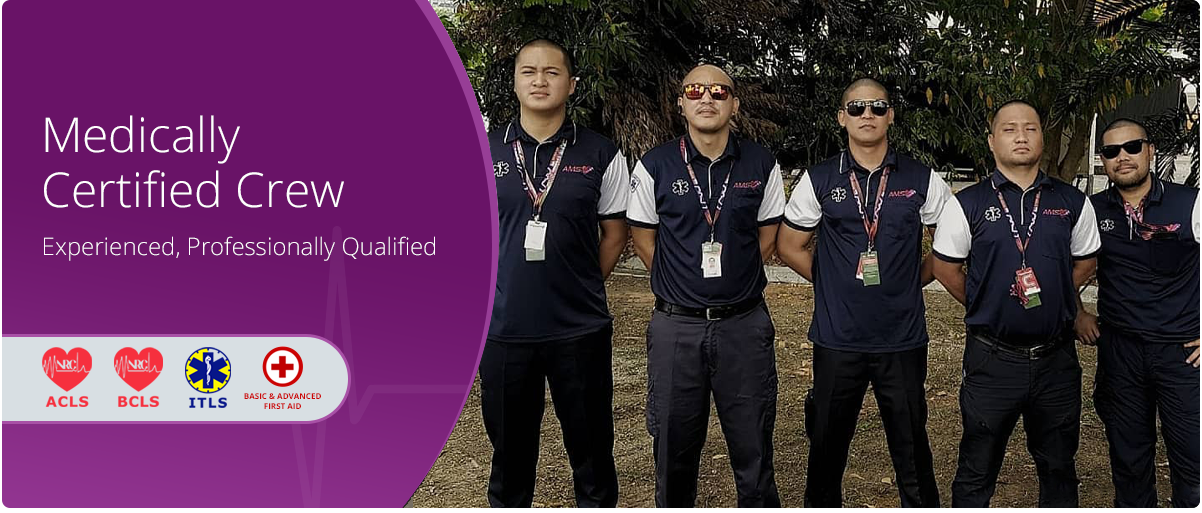
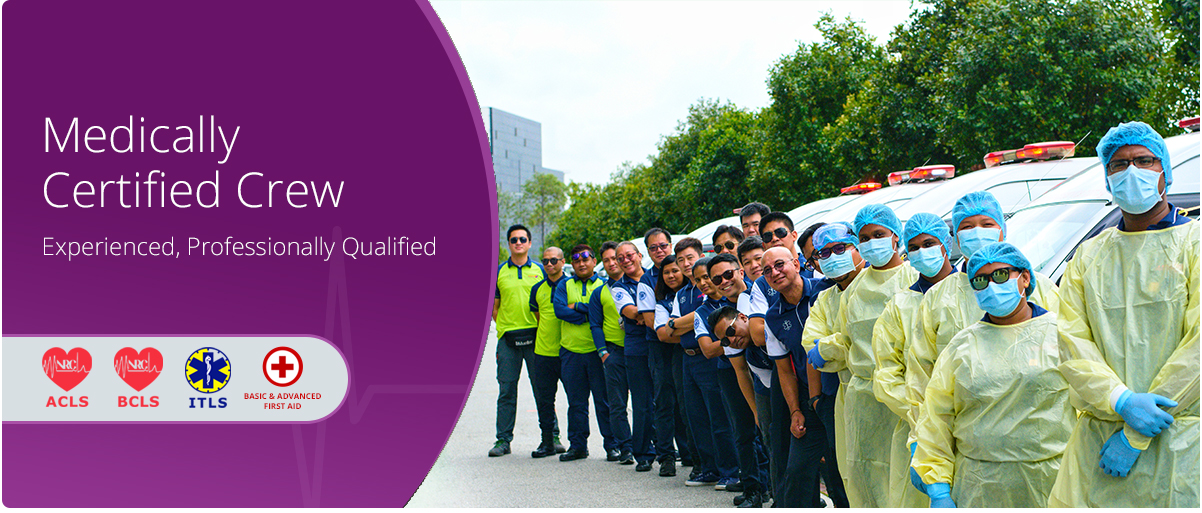
Am group 2 (#37)
* bulk

- applied jsonLD
- applied internal links
- applied alt texts

* applied hreflang tags

* bulk update

- removed unnecessary commas
- whats-new content update
- fix hreflang in contact us page

* bulk update

- iso logo
- new event
- add number
- content update
- replace images
- price list update

* fix content and gallery page

* meta title update

* Update nuxt.config.js

* bulk update

- update banner
- added latest events photos

---------

diff --git a/pages/gallery.vue b/pages/gallery.vue
@@ -59,6 +59,12 @@ export default {
           Latest Events
         </h2>
         <div class="gallery_img">
+          <img src="/images/singapore-f1-race.JPG" alt="Singapore F1 Race">
+        </div>
+        <div class="gallery_img">
+          <img src="/images/sail-gp.jpg" class="Sail GP">
+        </div>
+        <div class="gallery_img">
           <img src="/images/event-1.jpg">
         </div>
         <div class="gallery_img">
